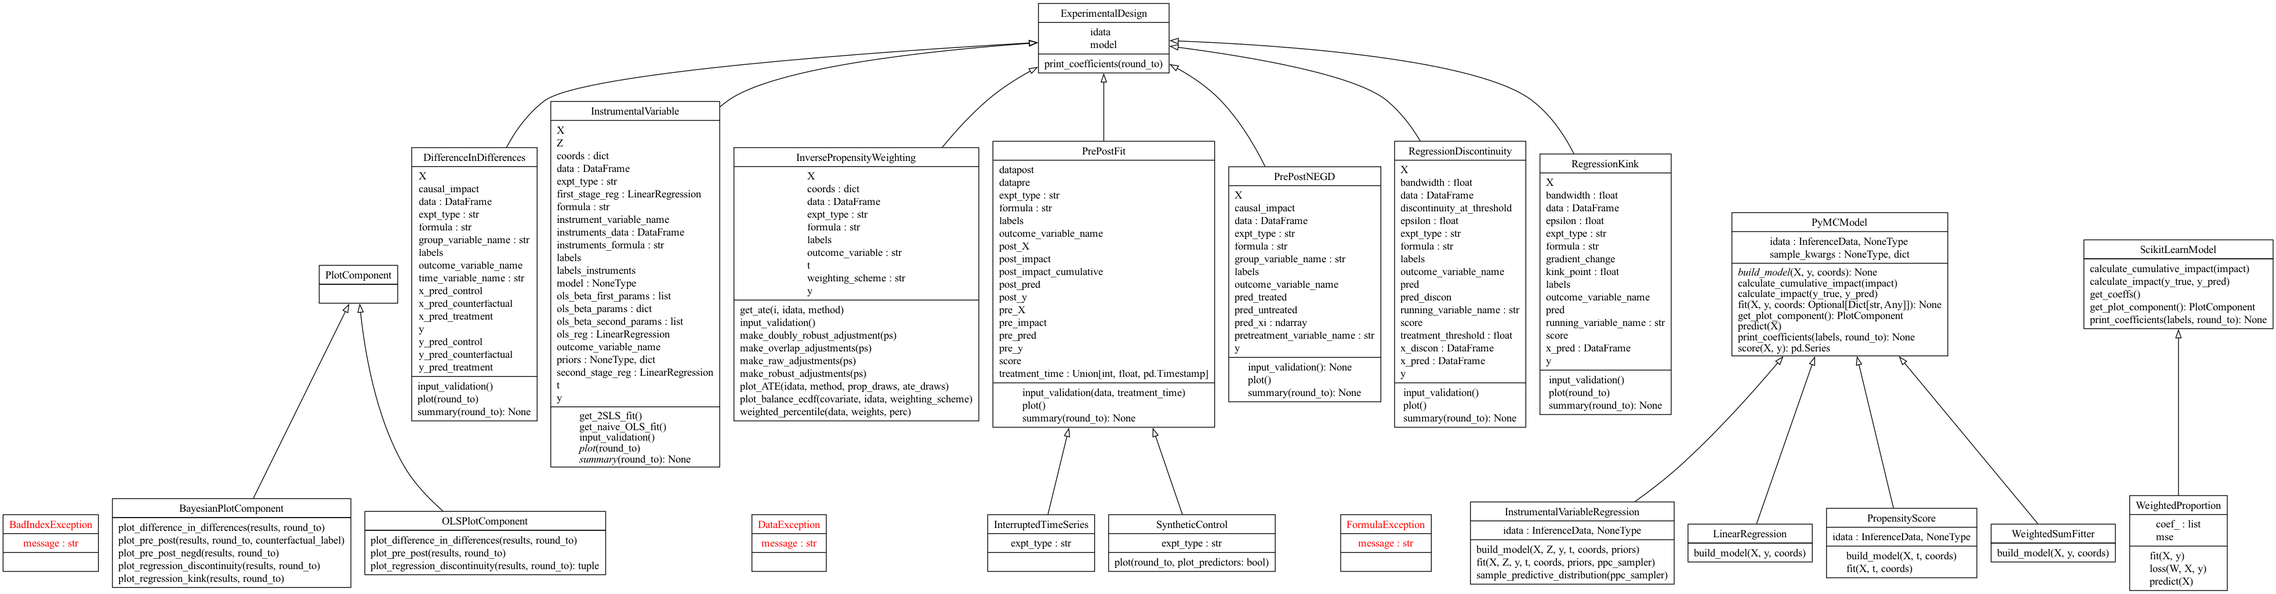
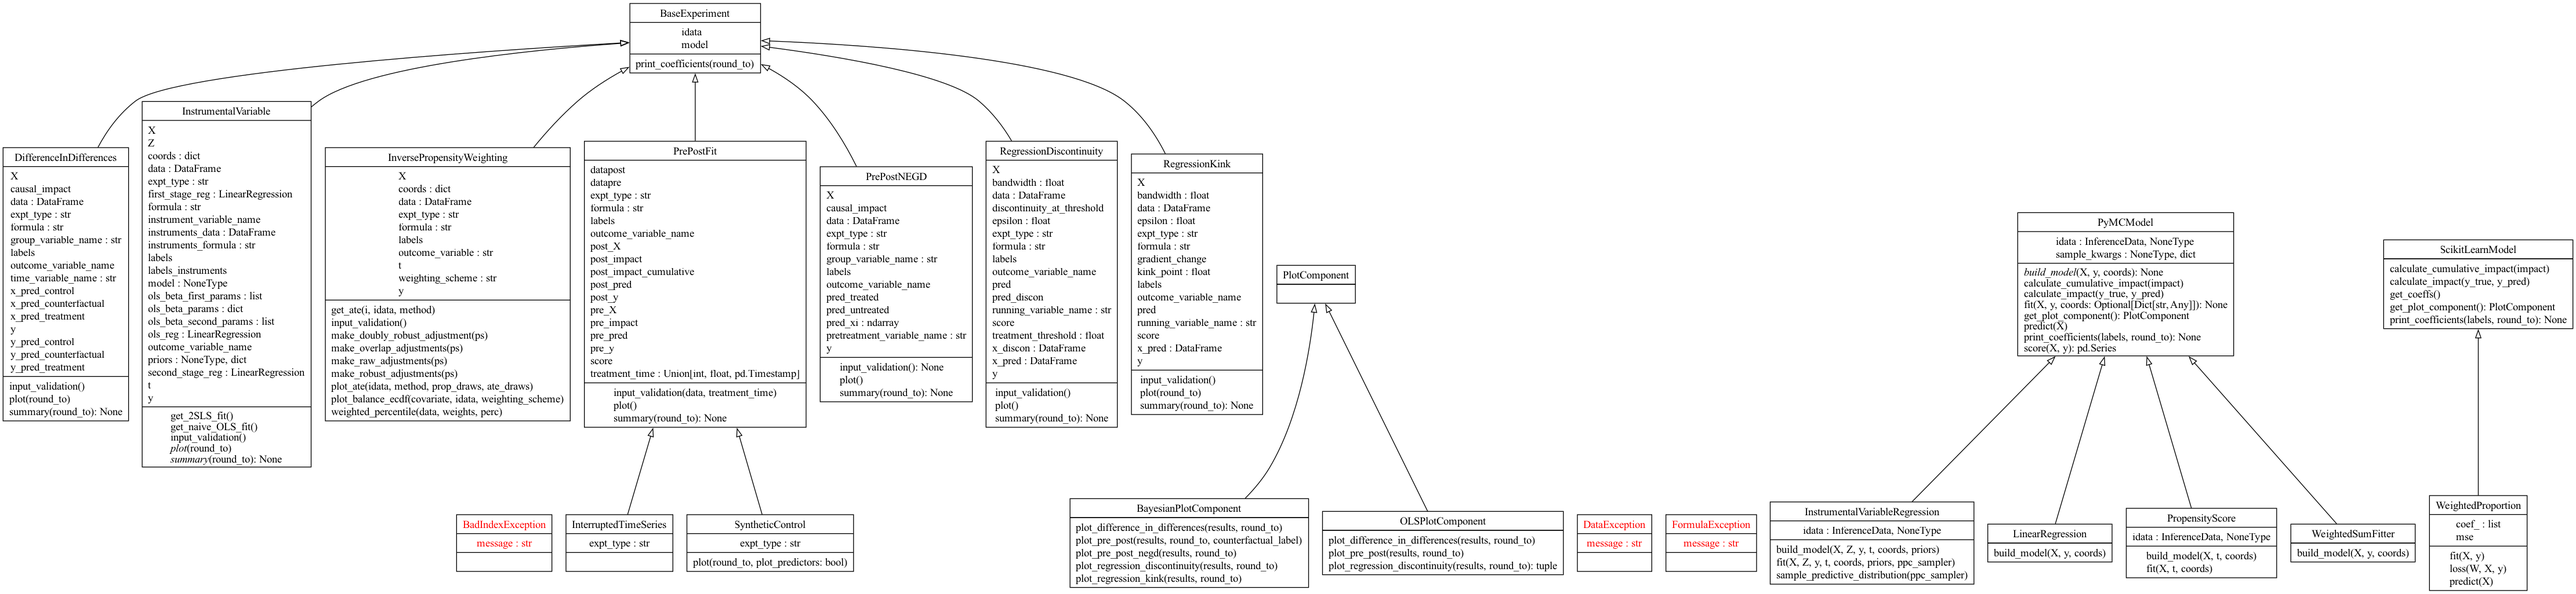
change experiment.py::ExperimentalDesign to base.py::BaseExperiment

diff --git a/causalpy/experiments/regression_discontinuity.py b/causalpy/experiments/regression_discontinuity.py
@@ -21,7 +21,7 @@ import numpy as np
 import pandas as pd
 from patsy import build_design_matrices, dmatrices
 
-from .experiments import ExperimentalDesign
+from .base import BaseExperiment
 from causalpy.pymc_models import PyMCModel
 from causalpy.skl_models import ScikitLearnModel
 from causalpy.utils import convert_to_string
@@ -32,7 +32,7 @@ from causalpy.custom_exceptions import (
 from causalpy.utils import _is_variable_dummy_coded
 
 
-class RegressionDiscontinuity(ExperimentalDesign):
+class RegressionDiscontinuity(BaseExperiment):
     """
     A class to analyse sharp regression discontinuity experiments.
 

diff --git a/causalpy/experiments/regression_kink.py b/causalpy/experiments/regression_kink.py
@@ -22,7 +22,7 @@ import numpy as np
 import pandas as pd
 from patsy import build_design_matrices, dmatrices
 
-from .experiments import ExperimentalDesign
+from .base import BaseExperiment
 from causalpy.utils import round_num
 from causalpy.custom_exceptions import (
     DataException,
@@ -31,7 +31,7 @@ from causalpy.custom_exceptions import (
 from causalpy.utils import _is_variable_dummy_coded
 
 
-class RegressionKink(ExperimentalDesign):
+class RegressionKink(BaseExperiment):
     """Regression Kink experiment class."""
 
     def __init__(

diff --git a/causalpy/experiments/prepostfit.py b/causalpy/experiments/prepostfit.py
@@ -25,10 +25,10 @@ from causalpy.custom_exceptions import BadIndexException
 from causalpy.pymc_models import PyMCModel
 from causalpy.skl_models import ScikitLearnModel
 
-from .experiments import ExperimentalDesign
+from .base import BaseExperiment
 
 
-class PrePostFit(ExperimentalDesign):
+class PrePostFit(BaseExperiment):
     """
     A base class for quasi-experimental designs where parameter estimation is based on
     just pre-intervention data. This class is not directly invoked by the user.

diff --git a/causalpy/experiments/diff_in_diff.py b/causalpy/experiments/diff_in_diff.py
@@ -27,10 +27,10 @@ from causalpy.pymc_models import PyMCModel
 from causalpy.skl_models import ScikitLearnModel
 from causalpy.utils import _is_variable_dummy_coded, convert_to_string
 
-from .experiments import ExperimentalDesign
+from .base import BaseExperiment
 
 
-class DifferenceInDifferences(ExperimentalDesign):
+class DifferenceInDifferences(BaseExperiment):
     """A class to analyse data from Difference in Difference settings.
 
     .. note::

diff --git a/causalpy/experiments/instrumental_variable.py b/causalpy/experiments/instrumental_variable.py
@@ -23,10 +23,10 @@ from patsy import dmatrices
 from sklearn.linear_model import LinearRegression as sk_lin_reg
 
 from causalpy.custom_exceptions import DataException
-from .experiments import ExperimentalDesign
+from .base import BaseExperiment
 
 
-class InstrumentalVariable(ExperimentalDesign):
+class InstrumentalVariable(BaseExperiment):
     """
     A class to analyse instrumental variable style experiments.
 

diff --git a/causalpy/experiments/inverse_propensity_weighting.py b/causalpy/experiments/inverse_propensity_weighting.py
@@ -25,10 +25,10 @@ from sklearn.linear_model import LinearRegression as sk_lin_reg
 
 from causalpy.custom_exceptions import DataException
 
-from .experiments import ExperimentalDesign
+from .base import BaseExperiment
 
 
-class InversePropensityWeighting(ExperimentalDesign):
+class InversePropensityWeighting(BaseExperiment):
     """
     A class to analyse inverse propensity weighting experiments.
 

diff --git a/causalpy/experiments/prepostnegd.py b/causalpy/experiments/prepostnegd.py
@@ -26,10 +26,10 @@ from causalpy.pymc_models import PyMCModel
 from causalpy.skl_models import ScikitLearnModel
 from causalpy.utils import _is_variable_dummy_coded, round_num
 
-from .experiments import ExperimentalDesign
+from .base import BaseExperiment
 
 
-class PrePostNEGD(ExperimentalDesign):
+class PrePostNEGD(BaseExperiment):
     """
     A class to analyse data from pretest/posttest designs
 

diff --git a/causalpy/experiments/base.py b/causalpy/experiments/base.py
@@ -16,7 +16,7 @@ Base class for quasi experimental designs.
 """
 
 
-class ExperimentalDesign:
+class BaseExperiment:
     """Base class for quasi experimental designs."""
 
     def __init__(self, model=None, **kwargs):
